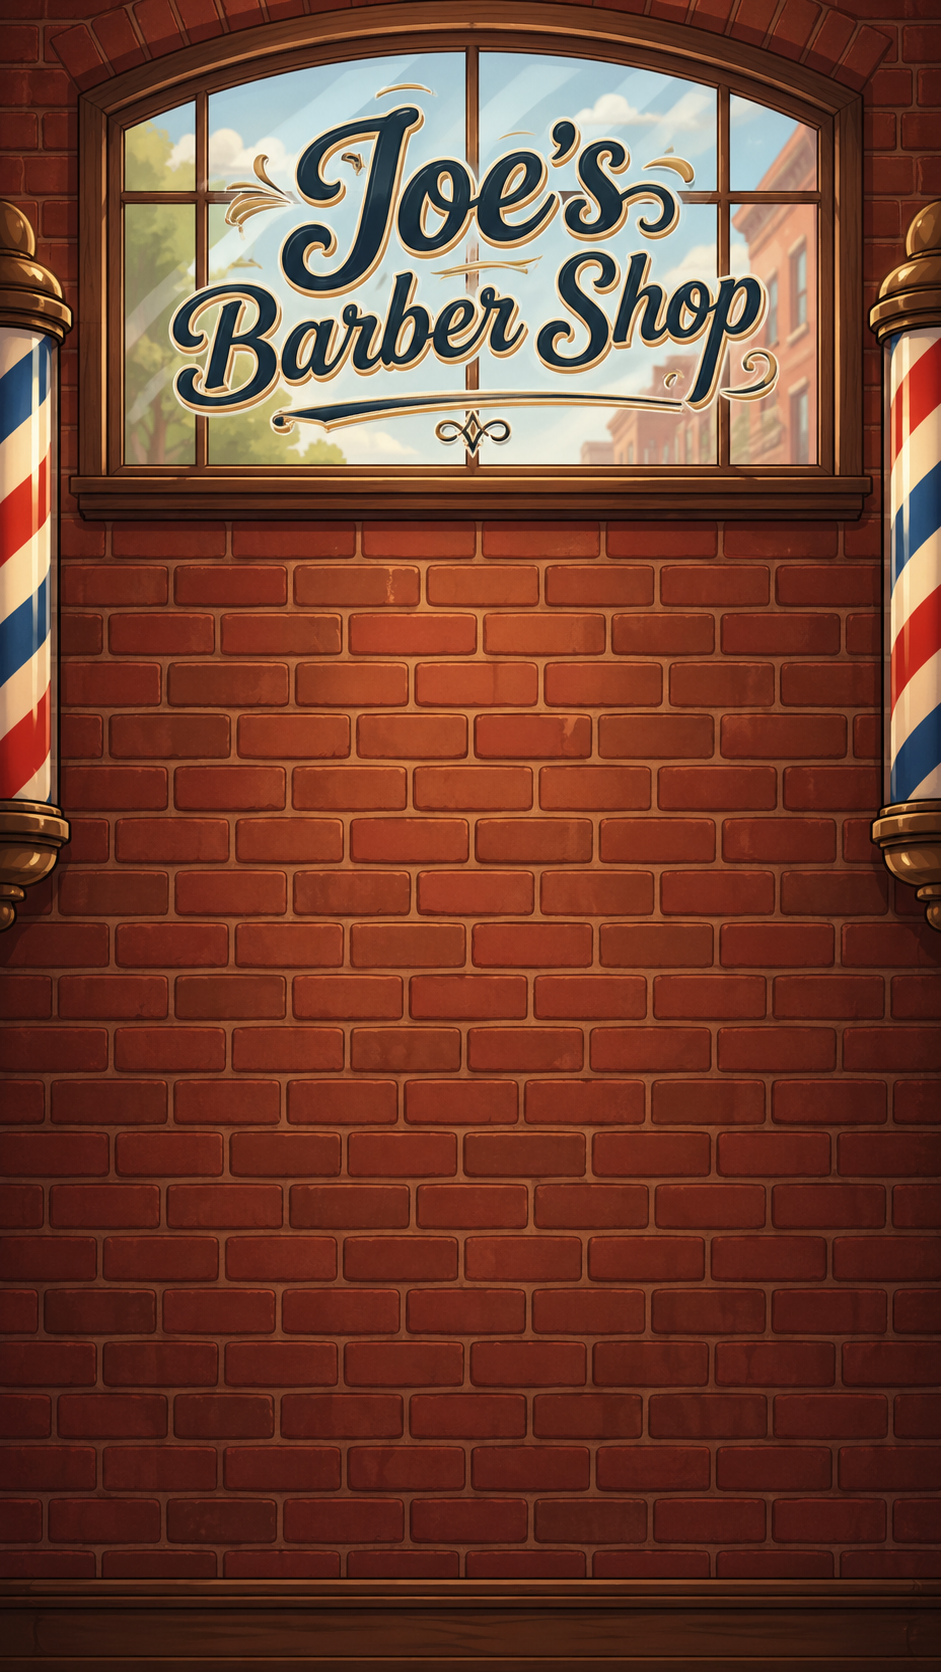
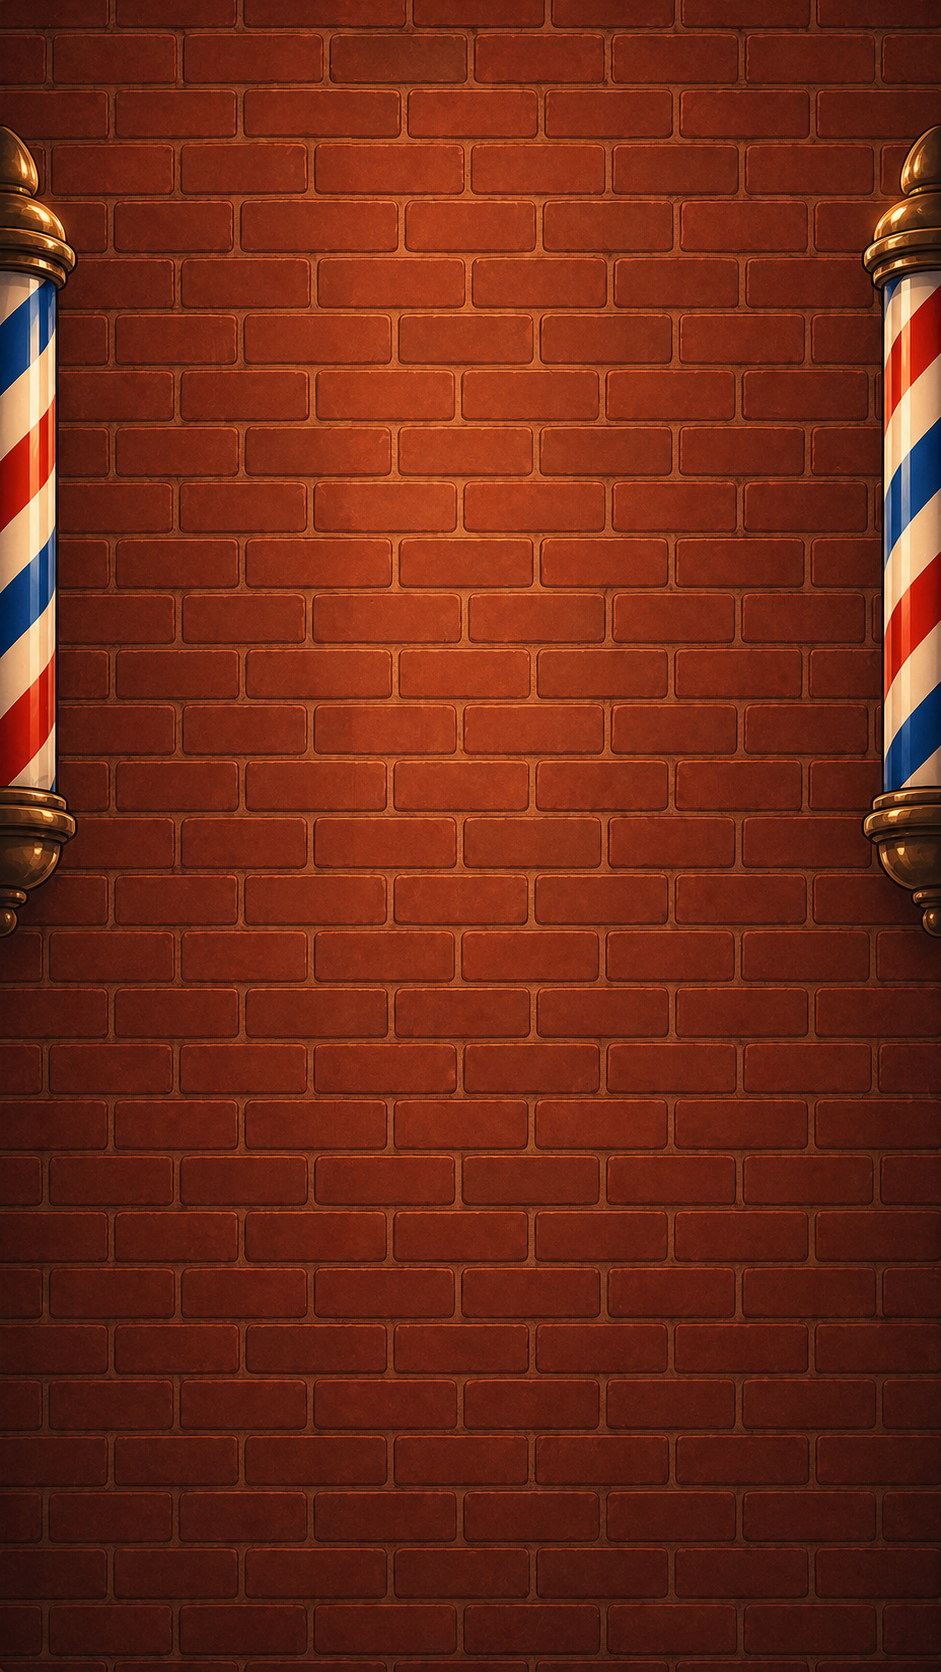
Modify to use sweet background

diff --git a/src/theme/index.ts b/src/theme/index.ts
@@ -1,10 +1,91 @@
-import { MD3LightTheme, MD3DarkTheme } from 'react-native-paper';
-import { colors } from './colors';
-import { typography } from './typography';
-import { spacing } from './spacing';
-import { radius } from './radius';
+import { MD3LightTheme } from 'react-native-paper';
 
-export { colors, typography, spacing, radius };
+export const colors = {
+  primary: {
+    default: '#B3261E',
+    light: '#FDE7E4',
+    dark: '#7A1C16',
+  },
+  secondary: {
+    default: '#174A7C',
+    light: '#DCEBFA',
+    dark: '#0A2B4D',
+  },
+  neutral: {
+    50: '#FAFAFA',
+    100: '#F4F4F5',
+    200: '#E4E4E7',
+    300: '#D4D4D8',
+    400: '#A1A1AA',
+    500: '#71717A',
+    600: '#52525B',
+    700: '#3F3F46',
+    800: '#27272A',
+    900: '#18181B',
+  },
+  semantic: {
+    success: '#16A34A',
+    warning: '#D97706',
+    error: '#DC2626',
+    info: '#2563EB',
+  },
+  surface: {
+    background: '#7B3F32',
+    card: 'rgba(255,255,255,0.92)',
+    overlay: 'rgba(0,0,0,0.5)',
+  },
+  text: {
+    primary: '#18181B',
+    secondary: '#52525B',
+    disabled: '#A1A1AA',
+    inverse: '#FFFFFF',
+  },
+} as const;
+
+export const spacing = {
+  1: 4,
+  2: 8,
+  3: 12,
+  4: 16,
+  5: 20,
+  6: 24,
+  8: 32,
+  10: 40,
+  12: 48,
+  16: 64,
+} as const;
+
+export const radius = {
+  sm: 4,
+  md: 8,
+  lg: 12,
+  xl: 16,
+  full: 9999,
+} as const;
+
+export const typography = {
+  fontSize: {
+    xs: 12,
+    sm: 14,
+    base: 16,
+    lg: 18,
+    xl: 20,
+    '2xl': 24,
+    '3xl': 30,
+    '4xl': 36,
+  },
+  fontWeight: {
+    normal: '400' as const,
+    medium: '500' as const,
+    semibold: '600' as const,
+    bold: '700' as const,
+  },
+  lineHeight: {
+    tight: 1.2,
+    normal: 1.5,
+    relaxed: 1.75,
+  },
+} as const;
 
 export const paperTheme = {
   ...MD3LightTheme,

diff --git a/src/app/_layout.tsx b/src/app/_layout.tsx
@@ -4,6 +4,7 @@ import { QueryClient, QueryClientProvider } from '@tanstack/react-query';
 import { PaperProvider } from 'react-native-paper';
 import { StatusBar } from 'expo-status-bar';
 import { AuthProvider, useAuth } from '@/lib/AuthContext';
+import { AppBackground } from '@/components/AppBackground';
 import { paperTheme } from '@/theme';
 
 const queryClient = new QueryClient({
@@ -25,10 +26,18 @@ function RootNavigator() {
   }, [session, isLoading, segments]);
 
   return (
-    <Stack screenOptions={{ headerShown: false }}>
+    <Stack screenOptions={{ headerShown: false, contentStyle: { backgroundColor: 'transparent' } }}>
       <Stack.Screen name="(auth)" />
       <Stack.Screen name="(tabs)" />
-      <Stack.Screen name="day-detail/[id]" options={{ presentation: 'modal', headerShown: true, title: 'Day Detail' }} />
+      <Stack.Screen
+        name="day-detail/[id]"
+        options={{
+          presentation: 'modal',
+          headerShown: true,
+          title: 'Day Detail',
+          contentStyle: { backgroundColor: 'transparent' },
+        }}
+      />
     </Stack>
   );
 }
@@ -38,7 +47,9 @@ export default function RootLayout() {
     <QueryClientProvider client={queryClient}>
       <PaperProvider theme={paperTheme}>
         <AuthProvider>
-          <RootNavigator />
+          <AppBackground>
+            <RootNavigator />
+          </AppBackground>
           <StatusBar style="auto" />
         </AuthProvider>
       </PaperProvider>

diff --git a/src/app/(tabs)/members.tsx b/src/app/(tabs)/members.tsx
@@ -204,7 +204,7 @@ function formatDate(dateStr: string) {
 }
 
 const styles = StyleSheet.create({
-  container: { flex: 1, backgroundColor: colors.surface.background },
+  container: { flex: 1, backgroundColor: 'transparent' },
   header: { paddingHorizontal: spacing[4], paddingTop: spacing[4], paddingBottom: spacing[2] },
   title: { fontSize: typography.fontSize['2xl'], fontWeight: typography.fontWeight.bold, color: colors.text.primary },
   centered: { flex: 1, alignItems: 'center', justifyContent: 'center', gap: spacing[3] },
@@ -219,7 +219,7 @@ const styles = StyleSheet.create({
     paddingHorizontal: spacing[4],
     paddingTop: spacing[4],
     paddingBottom: spacing[2],
-    backgroundColor: colors.surface.background,
+    backgroundColor: 'rgba(255,255,255,0.82)',
   },
   listItem: { paddingHorizontal: spacing[4], backgroundColor: colors.surface.card },
   memberName: { fontSize: typography.fontSize.base, fontWeight: typography.fontWeight.medium, color: colors.text.primary },

diff --git a/src/components/AppBackground.tsx b/src/components/AppBackground.tsx
@@ -1,0 +1,27 @@
+import { ImageBackground, StyleSheet } from 'react-native';
+import type { PropsWithChildren } from 'react';
+
+const backgroundImage = require('../../assets/images/barbershop-background.png');
+
+export function AppBackground({ children }: PropsWithChildren) {
+  return (
+    <ImageBackground
+      source={backgroundImage}
+      resizeMode="stretch"
+      style={styles.background}
+      imageStyle={styles.image}
+    >
+      {children}
+    </ImageBackground>
+  );
+}
+
+const styles = StyleSheet.create({
+  background: {
+    flex: 1,
+    backgroundColor: '#7B3F32',
+  },
+  image: {
+    opacity: 0.9,
+  },
+});

diff --git a/src/theme/colors.ts b/src/theme/colors.ts
@@ -1,13 +1,13 @@
 export const colors = {
   primary: {
-    default: '#D97706',
-    light: '#FCD34D',
-    dark: '#92400E',
+    default: '#B3261E',
+    light: '#FDE7E4',
+    dark: '#7A1C16',
   },
   secondary: {
-    default: '#0F766E',
-    light: '#5EEAD4',
-    dark: '#134E4A',
+    default: '#174A7C',
+    light: '#DCEBFA',
+    dark: '#0A2B4D',
   },
   neutral: {
     50: '#FAFAFA',
@@ -28,8 +28,8 @@ export const colors = {
     info: '#2563EB',
   },
   surface: {
-    background: '#FAFAFA',
-    card: '#FFFFFF',
+    background: '#7B3F32',
+    card: 'rgba(255,255,255,0.92)',
     overlay: 'rgba(0,0,0,0.5)',
   },
   text: {

diff --git a/src/app/(tabs)/bookings.tsx b/src/app/(tabs)/bookings.tsx
@@ -107,7 +107,7 @@ function formatDate(dateStr: string) {
 }
 
 const styles = StyleSheet.create({
-  container: { flex: 1, backgroundColor: colors.surface.background },
+  container: { flex: 1, backgroundColor: 'transparent' },
   header: { paddingHorizontal: spacing[4], paddingTop: spacing[4], paddingBottom: spacing[2] },
   title: { fontSize: typography.fontSize['2xl'], fontWeight: typography.fontWeight.bold, color: colors.text.primary },
   centered: { flex: 1, alignItems: 'center', justifyContent: 'center', gap: spacing[3] },

diff --git a/src/app/(tabs)/index.tsx b/src/app/(tabs)/index.tsx
@@ -275,7 +275,7 @@ function formatDate(dateStr: string) {
 }
 
 const styles = StyleSheet.create({
-  container: { flex: 1, backgroundColor: colors.surface.background },
+  container: { flex: 1, backgroundColor: 'transparent' },
   header: { paddingHorizontal: spacing[4], paddingTop: spacing[4], paddingBottom: spacing[2] },
   title: { fontSize: typography.fontSize['2xl'], fontWeight: typography.fontWeight.bold, color: colors.text.primary },
   centered: { flex: 1, alignItems: 'center', justifyContent: 'center', gap: spacing[3] },

diff --git a/src/app/(tabs)/_layout.tsx b/src/app/(tabs)/_layout.tsx
@@ -23,9 +23,13 @@ export default function TabsLayout() {
     <Tabs
       screenOptions={{
         headerShown: false,
+        sceneStyle: { backgroundColor: 'transparent' },
         tabBarActiveTintColor: colors.primary.default,
         tabBarInactiveTintColor: colors.text.disabled,
-        tabBarStyle: { backgroundColor: colors.surface.card },
+        tabBarStyle: {
+          backgroundColor: colors.surface.card,
+          borderTopColor: colors.secondary.dark,
+        },
       }}
     >
       <Tabs.Screen

diff --git a/src/app/day-detail/[id].tsx b/src/app/day-detail/[id].tsx
@@ -198,7 +198,7 @@ function formatDate(dateStr: string) {
 }
 
 const styles = StyleSheet.create({
-  container: { flex: 1, backgroundColor: colors.surface.background },
+  container: { flex: 1, backgroundColor: 'transparent' },
   centered: { flex: 1, alignItems: 'center', justifyContent: 'center', gap: spacing[3] },
   errorText: { fontSize: typography.fontSize.base, color: colors.text.secondary },
   summary: { padding: spacing[4], gap: spacing[3] },

diff --git a/src/app/(tabs)/requests.tsx b/src/app/(tabs)/requests.tsx
@@ -297,7 +297,7 @@ function formatDate(dateStr: string) {
 }
 
 const styles = StyleSheet.create({
-  container: { flex: 1, backgroundColor: colors.surface.background },
+  container: { flex: 1, backgroundColor: 'transparent' },
   flex: { flex: 1 },
   header: { paddingHorizontal: spacing[4], paddingTop: spacing[4], paddingBottom: spacing[2] },
   headerRow: { flexDirection: 'row', alignItems: 'center', gap: spacing[2] },

diff --git a/src/app/(auth)/_layout.tsx b/src/app/(auth)/_layout.tsx
@@ -2,7 +2,7 @@ import { Stack } from 'expo-router';
 
 export default function AuthLayout() {
   return (
-    <Stack screenOptions={{ headerShown: false }}>
+    <Stack screenOptions={{ headerShown: false, contentStyle: { backgroundColor: 'transparent' } }}>
       <Stack.Screen name="login" />
       <Stack.Screen name="register" />
     </Stack>

diff --git a/src/app/(tabs)/profile.tsx b/src/app/(tabs)/profile.tsx
@@ -69,7 +69,7 @@ export default function ProfileScreen() {
 const styles = StyleSheet.create({
   container: {
     flex: 1,
-    backgroundColor: colors.surface.background,
+    backgroundColor: 'transparent',
   },
   header: {
     paddingHorizontal: spacing[4],
